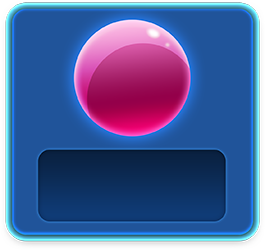
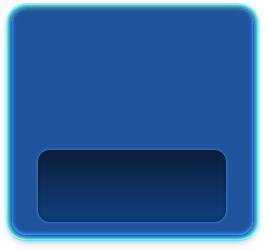
update UI counters

Changed region(s): [[0.0, 0.0, 0.9962, 0.98], [0.1509, 0.868, 0.8453, 0.896], [0.8453, 0.644, 0.8755, 0.784]]

diff --git a/src/GameEngine.ts b/src/GameEngine.ts
@@ -14,11 +14,12 @@ import {ELayerName} from "./components/ViewComponent";
 import {GameFinishSystem} from "./systems/GameFinishSystem";
 import {GameWinSystem} from "./systems/GameWinSystem";
 import {GameShuffleSystem} from "./systems/GameShuffleSystem";
-import {ProgressUI} from "./ui/ProgressUI";
-import {Counter0UI} from "./ui/Counter0UI";
-import {Counter1UI} from "./ui/Counter1UI";
-import {Counter2UI} from "./ui/Counter2UI";
-import {PointsCounterUI} from "./ui/PointsCounterUI";
+import {LevelProgressUI} from "./ui/LevelProgressUI";
+import {LevelCounterUI} from "./ui/LevelCounterUI";
+import {TotalPtsCounterUI} from "./ui/TotalPtsCounterUI";
+import {BoosterCounterUI} from "./ui/BoosterCounterUI";
+import {LevelPtsCounterUI} from "./ui/LevelPtsCounterUI";
+import {LevelStepsCounterUI} from "./ui/LevelStepsCounterUI";
 
 export class GameEngine extends Engine {
     public gameMeta: IMeta;
@@ -96,7 +97,7 @@ export class GameEngine extends Engine {
         stage.addChild(new Container()).name = ELayerName.gui;
         stage.addChild(cont).name = ELayerName.game;
 
-        this.addEntity(EntitiesFactory.createLevel(this, meta.levels[0]));
+        this.addEntity(EntitiesFactory.createGame(this, meta));
         this._systemsList.forEach(system => {
             if (PARAMS[system.constructor.name])
                 this.addSystem(system)
@@ -108,11 +109,12 @@ export class GameEngine extends Engine {
         fieldBg.height = 530;
         fieldBg.position.set(100, 100);
 
-        this.addEntity(EntitiesFactory.createUICounter(this.addToLayer(new ProgressUI(), ELayerName.gui)));
-        this.addEntity(EntitiesFactory.createUICounter(this.addToLayer(new Counter0UI(), ELayerName.gui)));
-        this.addEntity(EntitiesFactory.createUICounter(this.addToLayer(new Counter1UI(), ELayerName.gui)));
-        this.addEntity(EntitiesFactory.createUICounter(this.addToLayer(new Counter2UI(), ELayerName.gui)));
-        this.addEntity(EntitiesFactory.createUICounter(this.addToLayer(new PointsCounterUI(), ELayerName.gui)));
+        this.addEntity(EntitiesFactory.createUICounter(this.addToLayer(new LevelProgressUI(), ELayerName.gui)));
+        this.addEntity(EntitiesFactory.createUICounter(this.addToLayer(new LevelCounterUI(), ELayerName.gui)));
+        this.addEntity(EntitiesFactory.createUICounter(this.addToLayer(new TotalPtsCounterUI(), ELayerName.gui)));
+        this.addEntity(EntitiesFactory.createUICounter(this.addToLayer(new BoosterCounterUI(), ELayerName.gui)));
+        this.addEntity(EntitiesFactory.createUICounter(this.addToLayer(new LevelPtsCounterUI(), ELayerName.gui)));
+        this.addEntity(EntitiesFactory.createUICounter(this.addToLayer(new LevelStepsCounterUI(), ELayerName.gui)));
         this.addEntity(EntitiesFactory.createUICounter(this.addToLayer(fieldBg, ELayerName.gui)));
     }
 

diff --git a/src/ui/LevelPtsCounterUI.ts b/src/ui/LevelPtsCounterUI.ts
@@ -1,7 +1,9 @@
 import {Sprite, Text, Texture} from "pixi.js";
 import {BaseCounterUI} from "./BaseCounterUI";
 
-export class PointsCounterUI  extends BaseCounterUI {
+export class LevelPtsCounterUI extends BaseCounterUI {
+    private readonly _counter: Text;
+
      constructor()
      {
          super();
@@ -12,13 +14,6 @@ export class PointsCounterUI  extends BaseCounterUI {
          this.y = 100;
 
          const counter2 = new Sprite(Texture.from('score_bar.png'));
-         const textCounter2 = new Text('999', {
-             fontFamily: 'Marvin',
-             fontSize: 33,
-             fill: 0xFFFFFF,
-             align: 'center'
-         });
-         textCounter2.position.set(100, 170);
          const textCounter22 = new Text('Очки', {
              fontFamily: 'Roboto Condensed',
              fontSize: 19,
@@ -26,21 +21,21 @@ export class PointsCounterUI  extends BaseCounterUI {
              align: 'center'
          });
          textCounter22.position.set(110, 155);
-         const textCounter222 = new Text('99', {
+         this._counter = new Text('999', {
              fontFamily: 'Marvin',
-             fontSize: 55,
+             fontSize: 33,
              fill: 0xFFFFFF,
              align: 'center'
          });
-         textCounter222.position.set(100, 40);
+         this._counter.position.set(100, 170);
 
          this.addChild(counter2);
-         this.addChild(textCounter2);
          this.addChild(textCounter22);
-         this.addChild(textCounter222);
+         this.addChild(this._counter);
      }
 
     public set value(value: number)
     {
+        this._counter.text = value.toString();
     }
 }

diff --git a/src/EntitiesFactory.ts b/src/EntitiesFactory.ts
@@ -9,7 +9,7 @@ import {Grid} from "./types/Grid";
 import {GameEngine} from "./GameEngine";
 import {ELayerName, ViewComponent} from "./components/ViewComponent";
 import {MoveComponent} from "./components/MoveComponent";
-import {ILevelMeta} from "./types/IMeta";
+import {IMeta} from "./types/IMeta";
 import {EGameState} from "./types/EGameState";
 import {ETileState} from "./types/ETileState";
 import {UIEntity} from "./entity/UIEntity";
@@ -32,13 +32,14 @@ export class EntitiesFactory
         return entity;
     }
 
-    public static createLevel(engine:GameEngine, meta:ILevelMeta): LevelEntity
+    public static createGame(engine:GameEngine, meta:IMeta): LevelEntity
     {
         const entity = new LevelEntity();
         entity.id = this.nextEntityId();
         entity.putComponent(LevelComponent);
         const comp = entity.getComponent(LevelComponent);
-        comp.levelMeta = meta;
+        comp.levelMeta = meta.levels[0];
+        comp.boosters = meta.boosters;
         comp.grid = new Grid<TileComponent>();
         comp.grid.createGrid(comp.levelMeta.size.x, comp.levelMeta.size.y);
         comp.gameState = EGameState.init;
@@ -67,7 +68,6 @@ export class EntitiesFactory
         entity.putComponent(ViewComponent).view = view =
             EntitiesFactory.getTileView(entity.getComponent(TileComponent).type);
         view.interactive = view.interactiveChildren = true;
-        view.scale.set(0.2);
         view.position.set(position.x * view.width, position.y * view.height);
         entity.getComponent(ViewComponent).layerName = ELayerName.game;
         entity.getComponent(ViewComponent).removed = false;

diff --git a/src/systems/UISystem.ts b/src/systems/UISystem.ts
@@ -31,23 +31,27 @@ export class UISystem extends AppSystem {
         this.uiFamily.entities.filter(item => item.getComponent(UIComponent).counter != null)
             .forEach(item => {
             const comp = item.getComponent(UIComponent);
+            const meta = this.level.levelMeta;
             switch (comp.counter.name) {
                 case "levelCounter":
-                    comp.counter.value = 1;
-                    break;
-                case "totalWinCounter":
-
-                    break;
-                case "boosterCounter":
-
+                    //comp.counter.value = this.level.currentLevel;
                     break;
                 case "progressBar":
                     comp.counter.value = Math.min(1,
-                        this.level.levelMeta.winPoints.curValue / this.level.levelMeta.winPoints.maxValue
+                        meta.winPoints.curValue / meta.winPoints.maxValue
                     );
                     break;
+                case "totalWinCounter":
+                    comp.counter.value = Math.round(meta.winPoints.curValue);
+                    break;
+                case "stepsCounter":
+                    comp.counter.value = Math.round(meta.winSteps.maxValue - meta.winSteps.curValue);
+                    break;
                 case "levelPointsCounter":
-
+                    comp.counter.value = meta.winPoints.curValue;
+                    break;
+                case "boosterCounter":
+                    comp.counter.value = this.level.boosters.bomb;
                     break;
             }
         });

diff --git a/src/ui/BoosterCounterUI.ts b/src/ui/BoosterCounterUI.ts
@@ -1,26 +1,28 @@
 import {Sprite, Text, Texture} from "pixi.js";
 import {BaseCounterUI} from "./BaseCounterUI";
 
-export class Counter0UI extends BaseCounterUI {
+export class BoosterCounterUI extends BaseCounterUI {
     private readonly _counter: Text;
 
     constructor()
     {
         super();
 
-        this.name = "levelCounter";
-        this.y = 60;
+        this.name = "boosterCounter";
 
-        const bg = new Sprite(Texture.from('counter_0.png'));
-        this._counter = new Text('99', {
+        this.x = 600;
+        this.y = 400;
+
+        const bonus = new Sprite(Texture.from('booster.png'));
+        this._counter = new Text('9', {
             fontFamily: 'Marvin',
             fontSize: 24,
             fill: 0xFFFFFF,
             align: 'center'
         });
-        this._counter.position.set(40, 0);
+        this._counter.position.set(30, 65);
 
-        this.addChild(bg);
+        this.addChild(bonus);
         this.addChild(this._counter);
     }
 
@@ -28,6 +30,4 @@ export class Counter0UI extends BaseCounterUI {
     {
         this._counter.text = value.toString();
     }
-
-
 }

diff --git a/src/ui/TotalPtsCounterUI.ts b/src/ui/TotalPtsCounterUI.ts
@@ -1,7 +1,9 @@
 import {Sprite, Text, Texture} from "pixi.js";
 import {BaseCounterUI} from "./BaseCounterUI";
 
-export class Counter1UI extends BaseCounterUI {
+export class TotalPtsCounterUI extends BaseCounterUI {
+    private readonly _counter: Text;
+
     constructor()
     {
         super();
@@ -12,19 +14,20 @@ export class Counter1UI extends BaseCounterUI {
         this.y = 30;
 
         const counter1 = new Sprite(Texture.from('counter_1.png'));
-        const textCounter1 = new Text('9999', {
+        this._counter = new Text('9999', {
             fontFamily: 'Marvin',
             fontSize: 24,
             fill: 0xFFFFFF,
             align: 'center'
         });
-        textCounter1.position.set(40, 0);
+        this._counter.position.set(40, 0);
 
         this.addChild(counter1);
-        this.addChild(textCounter1);
+        this.addChild(this._counter);
     }
 
     public set value(value: number)
     {
+        this._counter.text = value.toString();
     }
 }

diff --git a/src/ui/LevelStepsCounterUI.ts b/src/ui/LevelStepsCounterUI.ts
@@ -1,0 +1,32 @@
+import {Sprite, Text, Texture} from "pixi.js";
+import {BaseCounterUI} from "./BaseCounterUI";
+
+export class LevelStepsCounterUI extends BaseCounterUI {
+    private readonly _counter: Text;
+
+    constructor()
+    {
+        super();
+
+        this.name = "stepsCounter";
+
+        this.x = 600;
+        this.y = 100;
+
+        this._counter = new Text('99', {
+            fontFamily: 'Marvin',
+            fontSize: 55,
+            fill: 0xFFFFFF,
+            align: 'center'
+        });
+        this._counter.position.set(100, 40);
+
+        this.addChild(Sprite.from(Texture.from("score_steps.png")));
+        this.addChild(this._counter);
+    }
+
+    public set value(value: number)
+    {
+        this._counter.text = value.toString();
+    }
+}

diff --git a/src/ui/LevelCounterUI.ts b/src/ui/LevelCounterUI.ts
@@ -1,0 +1,33 @@
+import {Sprite, Text, Texture} from "pixi.js";
+import {BaseCounterUI} from "./BaseCounterUI";
+
+export class LevelCounterUI extends BaseCounterUI {
+    private readonly _counter: Text;
+
+    constructor()
+    {
+        super();
+
+        this.name = "levelCounter";
+        this.y = 60;
+
+        const bg = new Sprite(Texture.from('counter_0.png'));
+        this._counter = new Text('99', {
+            fontFamily: 'Marvin',
+            fontSize: 24,
+            fill: 0xFFFFFF,
+            align: 'center'
+        });
+        this._counter.position.set(40, 0);
+
+        this.addChild(bg);
+        this.addChild(this._counter);
+    }
+
+    public set value(value: number)
+    {
+        this._counter.text = (value + 1).toString();
+    }
+
+
+}

diff --git a/src/ui/LevelProgressUI.ts b/src/ui/LevelProgressUI.ts
@@ -1,8 +1,9 @@
 import {Container, NineSlicePlane, Text, Texture} from "pixi.js";
 import {BaseCounterUI} from "./BaseCounterUI";
 
-export class ProgressUI extends BaseCounterUI {
-    private readonly fullWidth = 470;
+export class LevelProgressUI extends BaseCounterUI {
+    private readonly maxWidth = 470;
+    private readonly minWidth = 25;
     private progressLineView: Container;
 
      constructor()
@@ -47,6 +48,7 @@ export class ProgressUI extends BaseCounterUI {
 
     public set value(value: number)
     {
-        this.progressLineView.width = value * this.fullWidth;
+        const totalWidth = value * this.maxWidth;
+        this.progressLineView.width = totalWidth > 0 && totalWidth<this.minWidth ? this.minWidth : totalWidth;
     }
 }

diff --git a/src/components/BaseLevelComponent.ts b/src/components/BaseLevelComponent.ts
@@ -1,12 +1,13 @@
 import {Component} from "@nova-engine/ecs";
 import {EGameState} from "../types/EGameState";
 import {Grid, GridCell} from "../types/Grid";
-import {ILevelMeta} from "../types/IMeta";
+import {BoosterMeta, ILevelMeta} from "../types/IMeta";
 
 export class BaseLevelComponent<CellType extends GridCell> implements Component {
     public grid: Grid<CellType>;
     public gameState: EGameState;
-    public levelMeta:ILevelMeta;
+    public boosters: BoosterMeta;
+    public levelMeta: ILevelMeta;
 
     public get isGameOver(): boolean
     {

diff --git a/src/systems/TileAnimateSystem.ts b/src/systems/TileAnimateSystem.ts
@@ -36,7 +36,7 @@ export class TileAnimateSystem extends AppSystem {
             const {view} = tileEntity.getComponent(ViewComponent);
             const tileComp = tileEntity.getComponent(TileComponent);
             tileComp.state = ETileState.animate;
-            moveComp.speed = 5;
+            moveComp.speed = 4;
             moveComp.strategy = new MoveToTargetStrategy();
             moveComp.startPoint = view.position.clone();
             moveComp.endPoint = new Point(

diff --git a/src/components/MoveComponent.ts b/src/components/MoveComponent.ts
@@ -1,11 +1,11 @@
-import { Component } from "@nova-engine/ecs";
+import {Component} from "@nova-engine/ecs";
 import {Point} from "pixi.js";
 import {Utils} from "../utils/Utils";
 
 export class MoveComponent implements Component {
     private _strategy: IMoveStrategy;
     enabled: boolean = false; // todo remove and use start/end point
-    speed: number = 5;
+    speed: number = 4;
     progress: number = 0;
 
     startPoint: Point;
